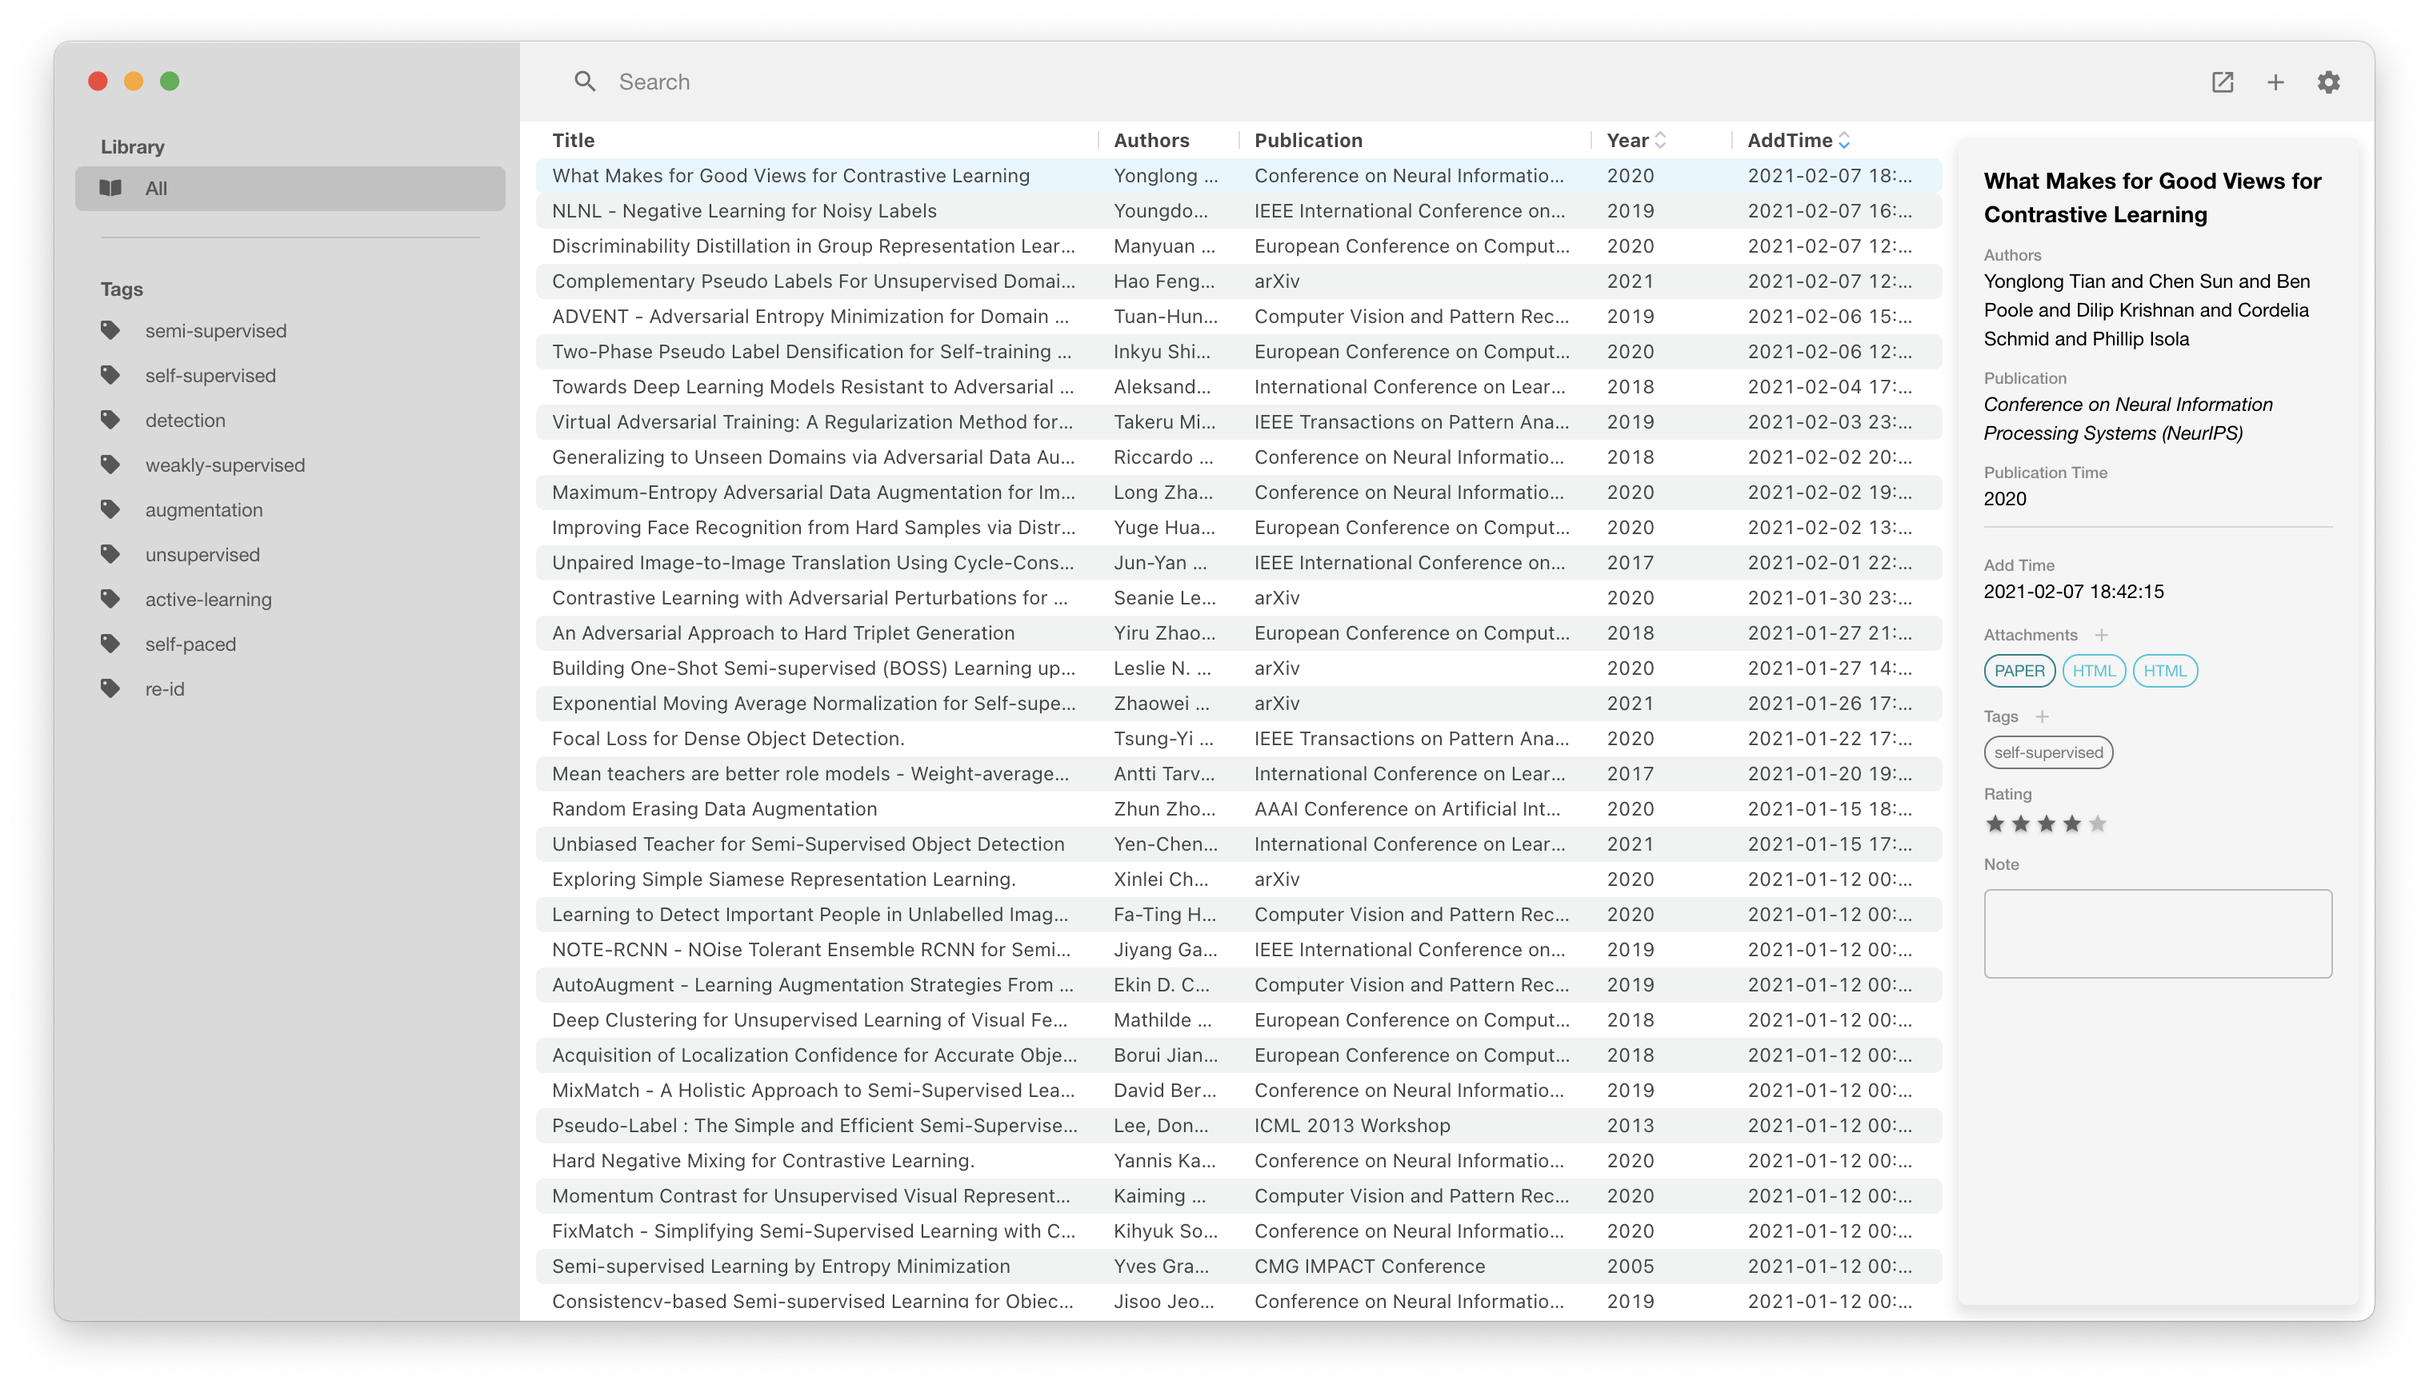
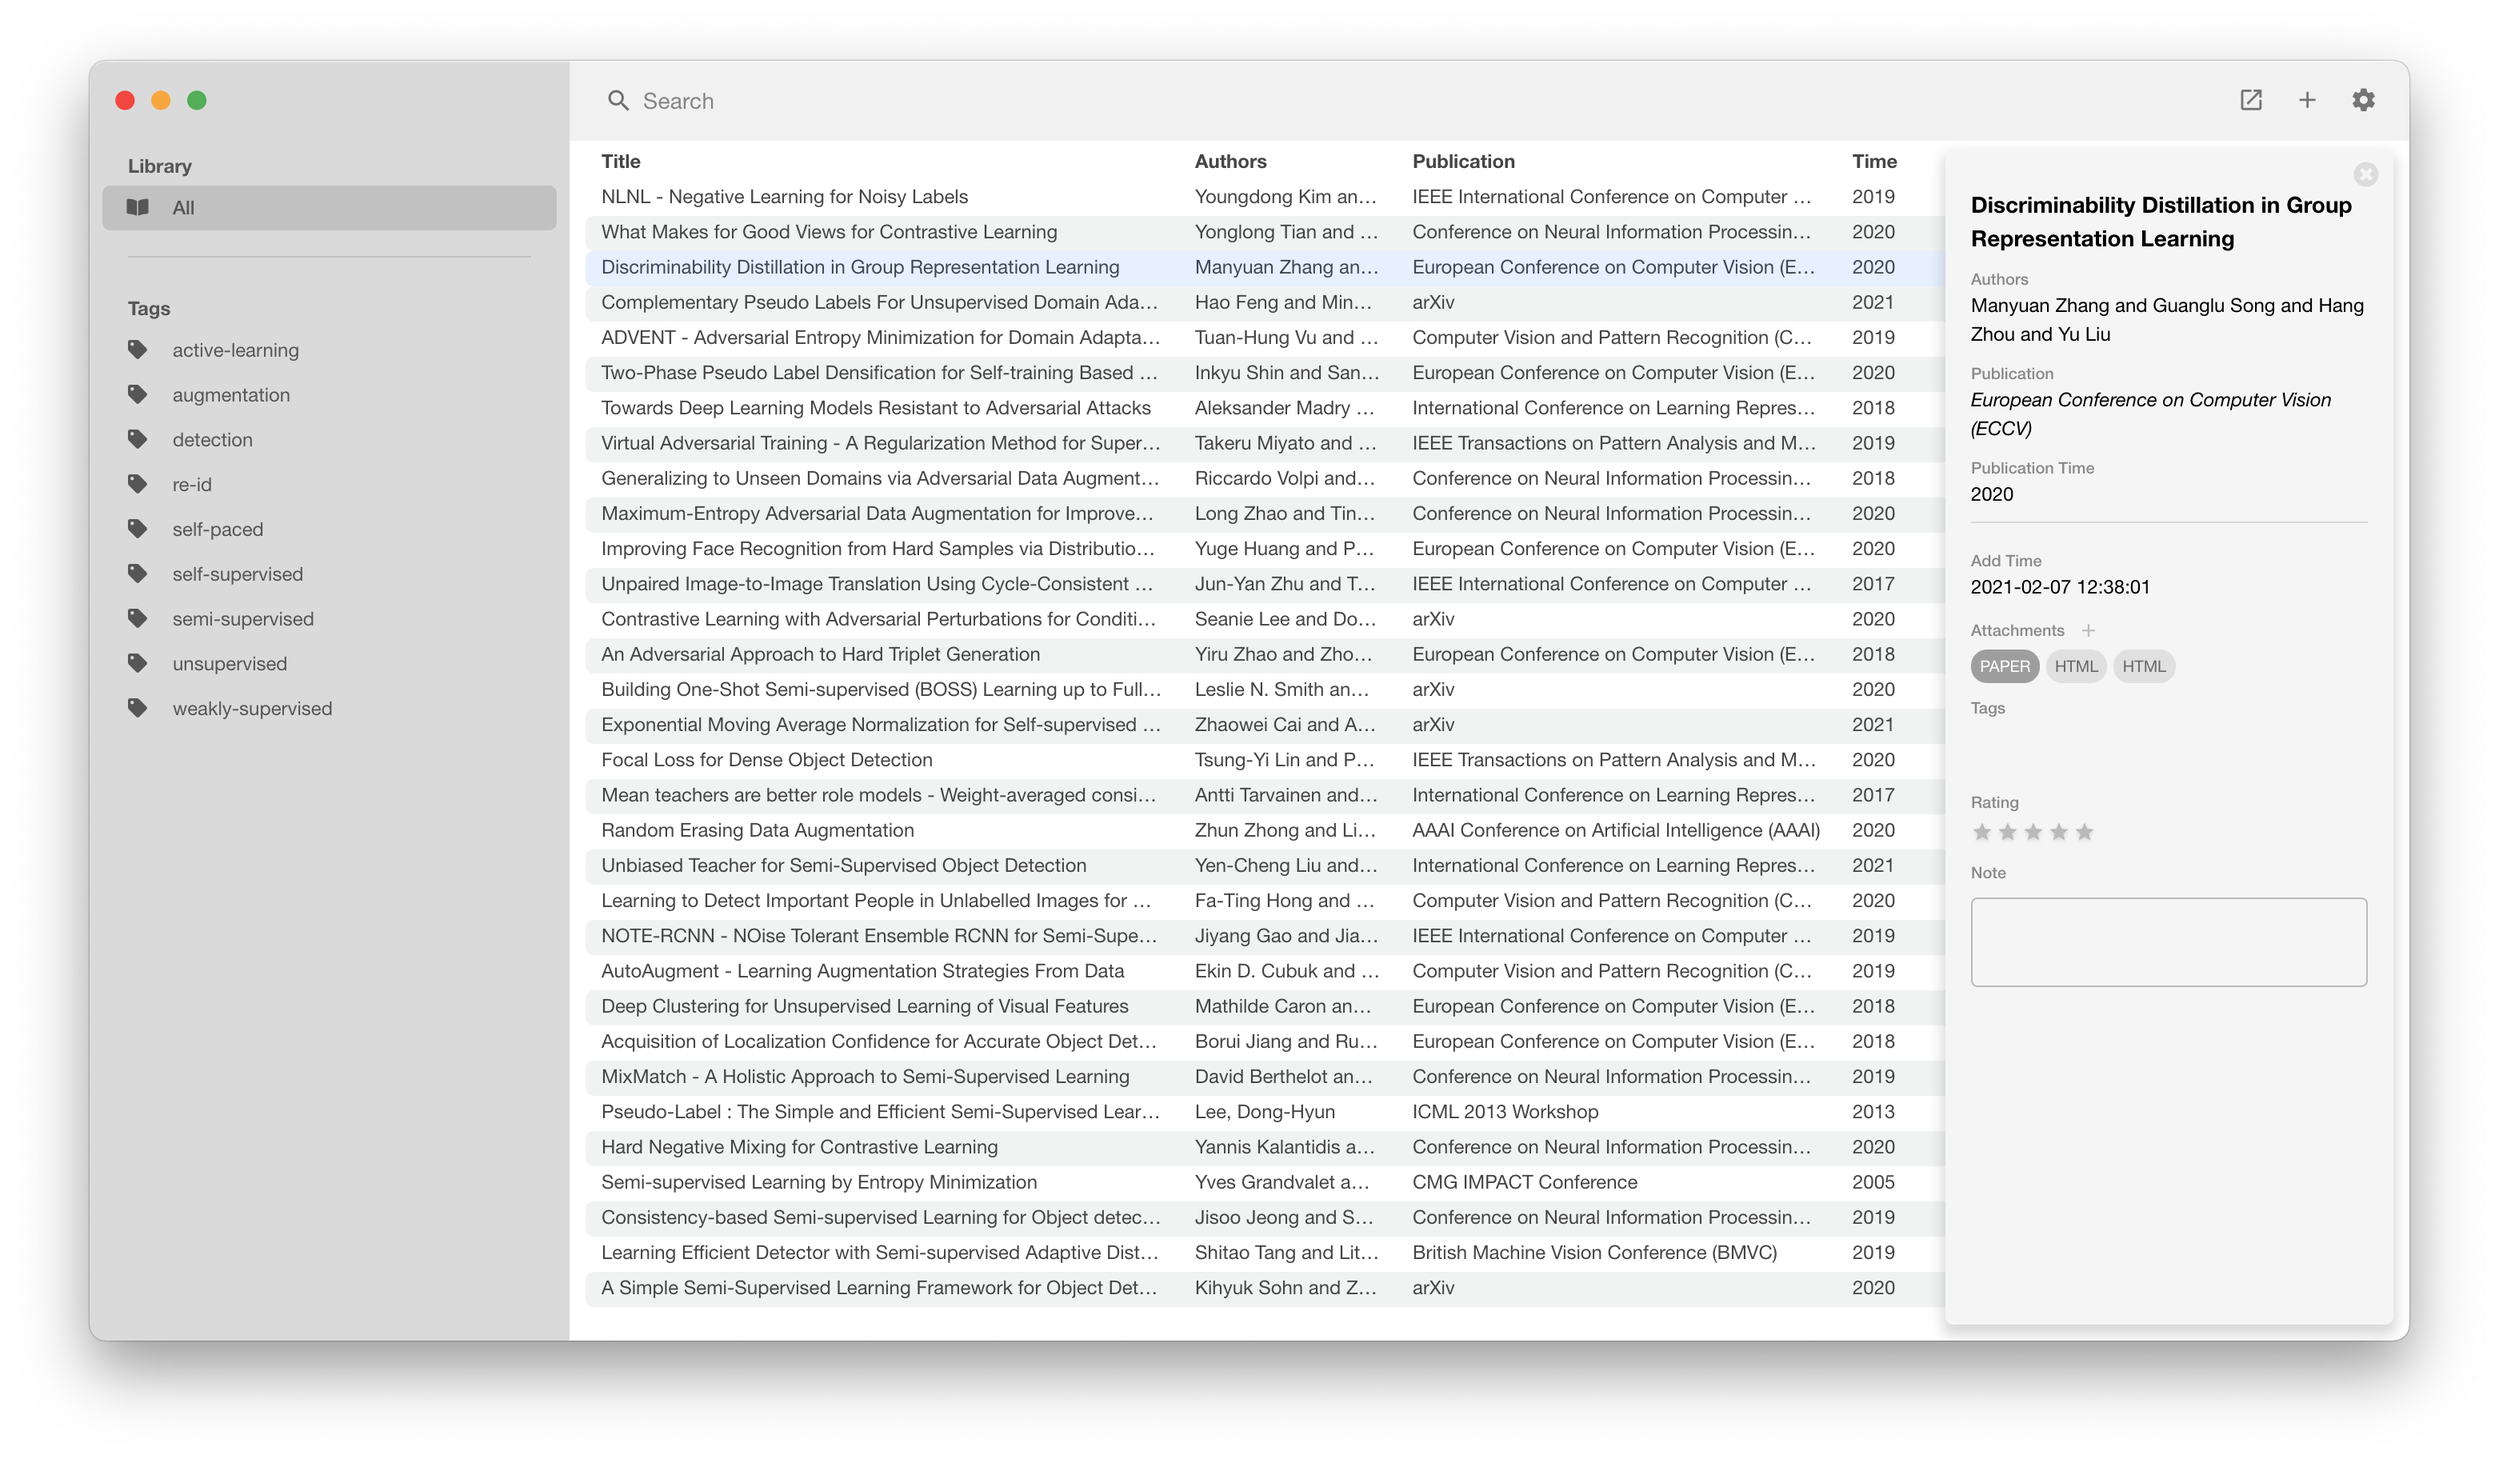
fix sort bug, add intro video to readme.

Changed region(s): [[0.0, 0.0311, 0.9908, 0.9643], [0.031, 0.1866, 0.1238, 0.4977], [0.2477, 0.0622, 0.2787, 0.0933]]

diff --git a/src/pages/Index.vue b/src/pages/Index.vue
@@ -505,7 +505,9 @@ export default {
         paperMeta = await copyFiles(paperMeta)
         const fileSuccess = await dbInsertFiles(paperMeta)
         if (fileSuccess) {
-          this.allData.push(paperMeta)
+          this.allData.unshift(paperMeta)
+          const sortConfig = this.$refs.dataTable.hotInstance.getPlugin('multiColumnSorting').getSortConfig()
+          this.$refs.dataTable.hotInstance.getPlugin('multiColumnSorting').sort(sortConfig)
         } else {
           await deleteFiles(paperMeta)
           // TODO: alert

diff --git a/README.md b/README.md
@@ -12,16 +12,11 @@ A simple academic paper management tool for CSer. **(in development, unstable)**
 ![](./assets/ui.png)
 
 ## Feature
-1. Automaticly match metadata form Arxiv, DBLP and DOI.
-3. Rate a paper and write your notes.
-4. Organize by tag.
-5. Import from pdf, bibtex file.
-6. Export to bibtex.
+1. Automaticly match paper's metadata form Arxiv, DBLP and DOI.
+3. Rating a paper and taking some notes.
+4. Organize papers by tag.
+5. Import paper from pdf, bibtex file.
+6. Export bibtex.
 
 ## Usage
-
-### Add a paper entry from pdf
-Simply drag pdf file to the data chart.
-
-### Manually match, edit metadata
-Right-click paper line to open context menu.
+<iframe width="560" height="315" src="https://www.youtube.com/embed/3XmiA1EmuOc" frameborder="0" allow="accelerometer; autoplay; clipboard-write; encrypted-media; gyroscope; picture-in-picture" allowfullscreen></iframe>
